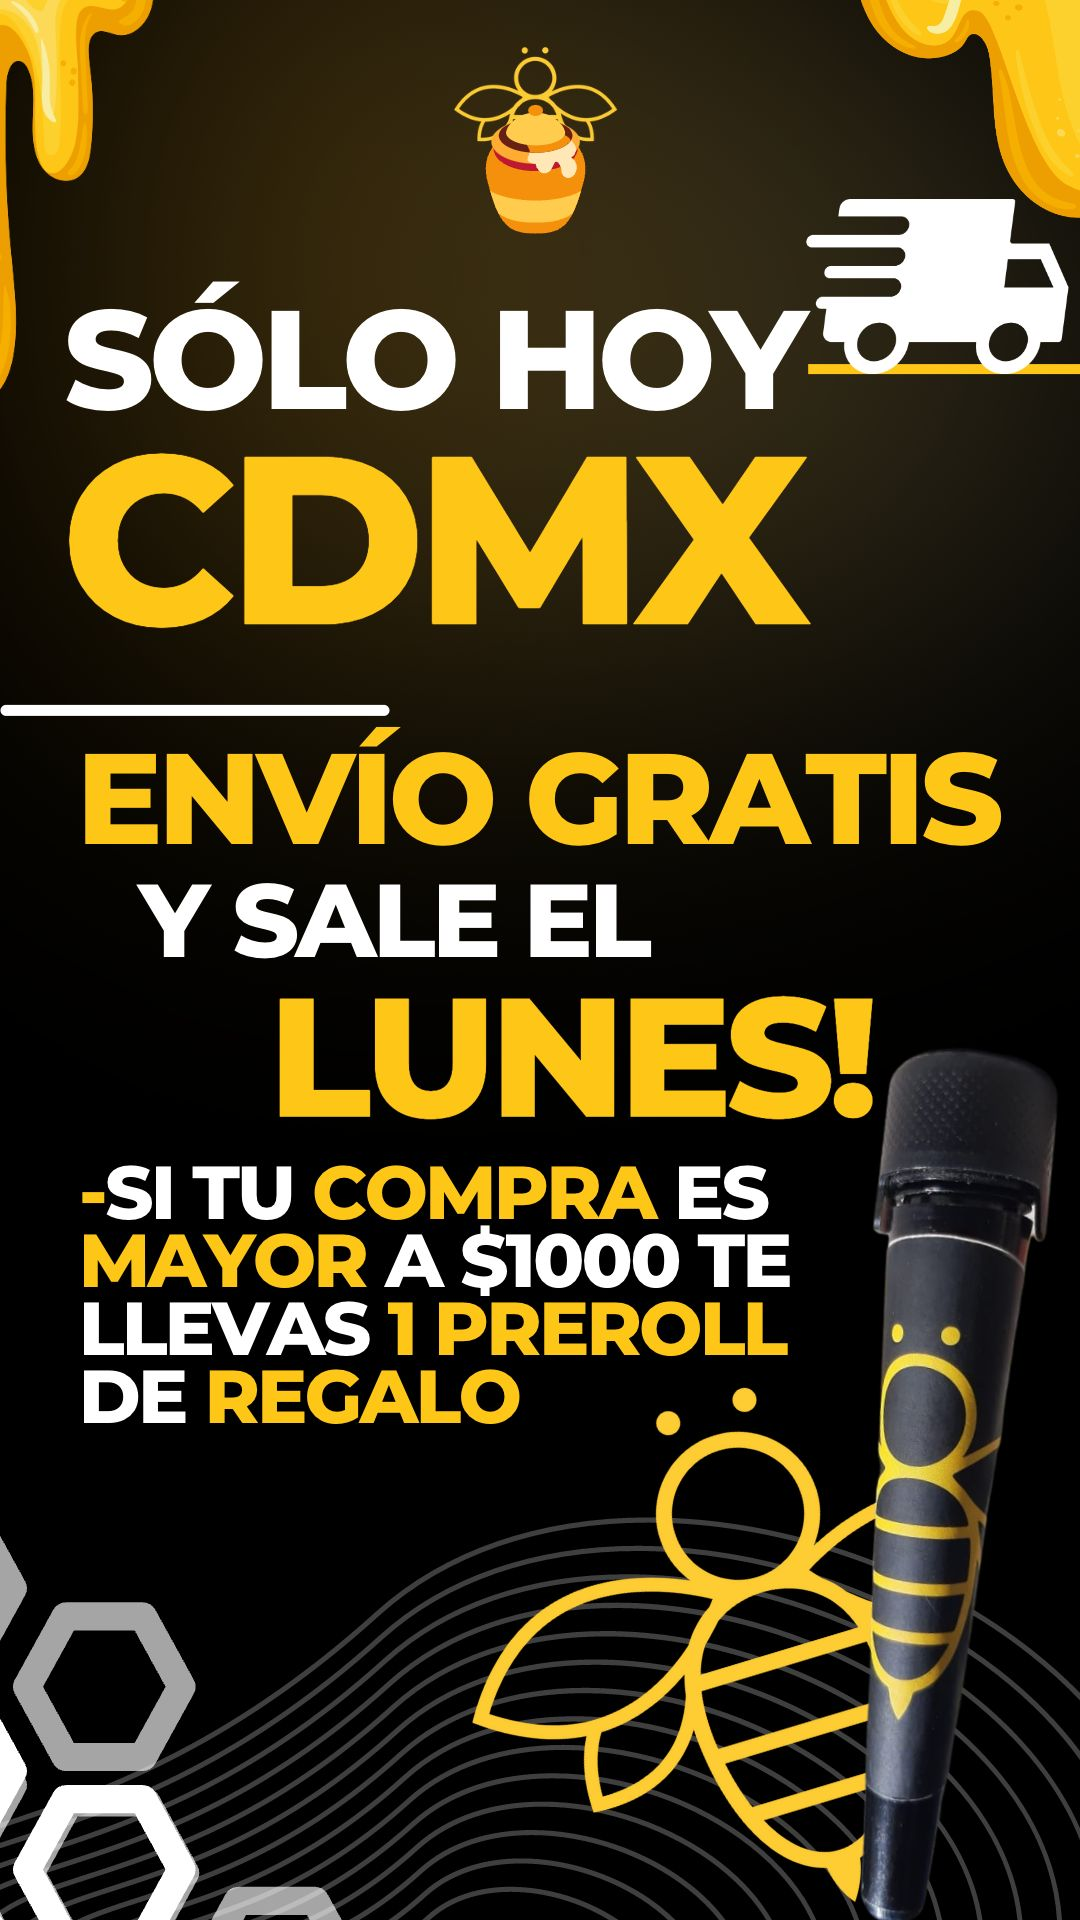
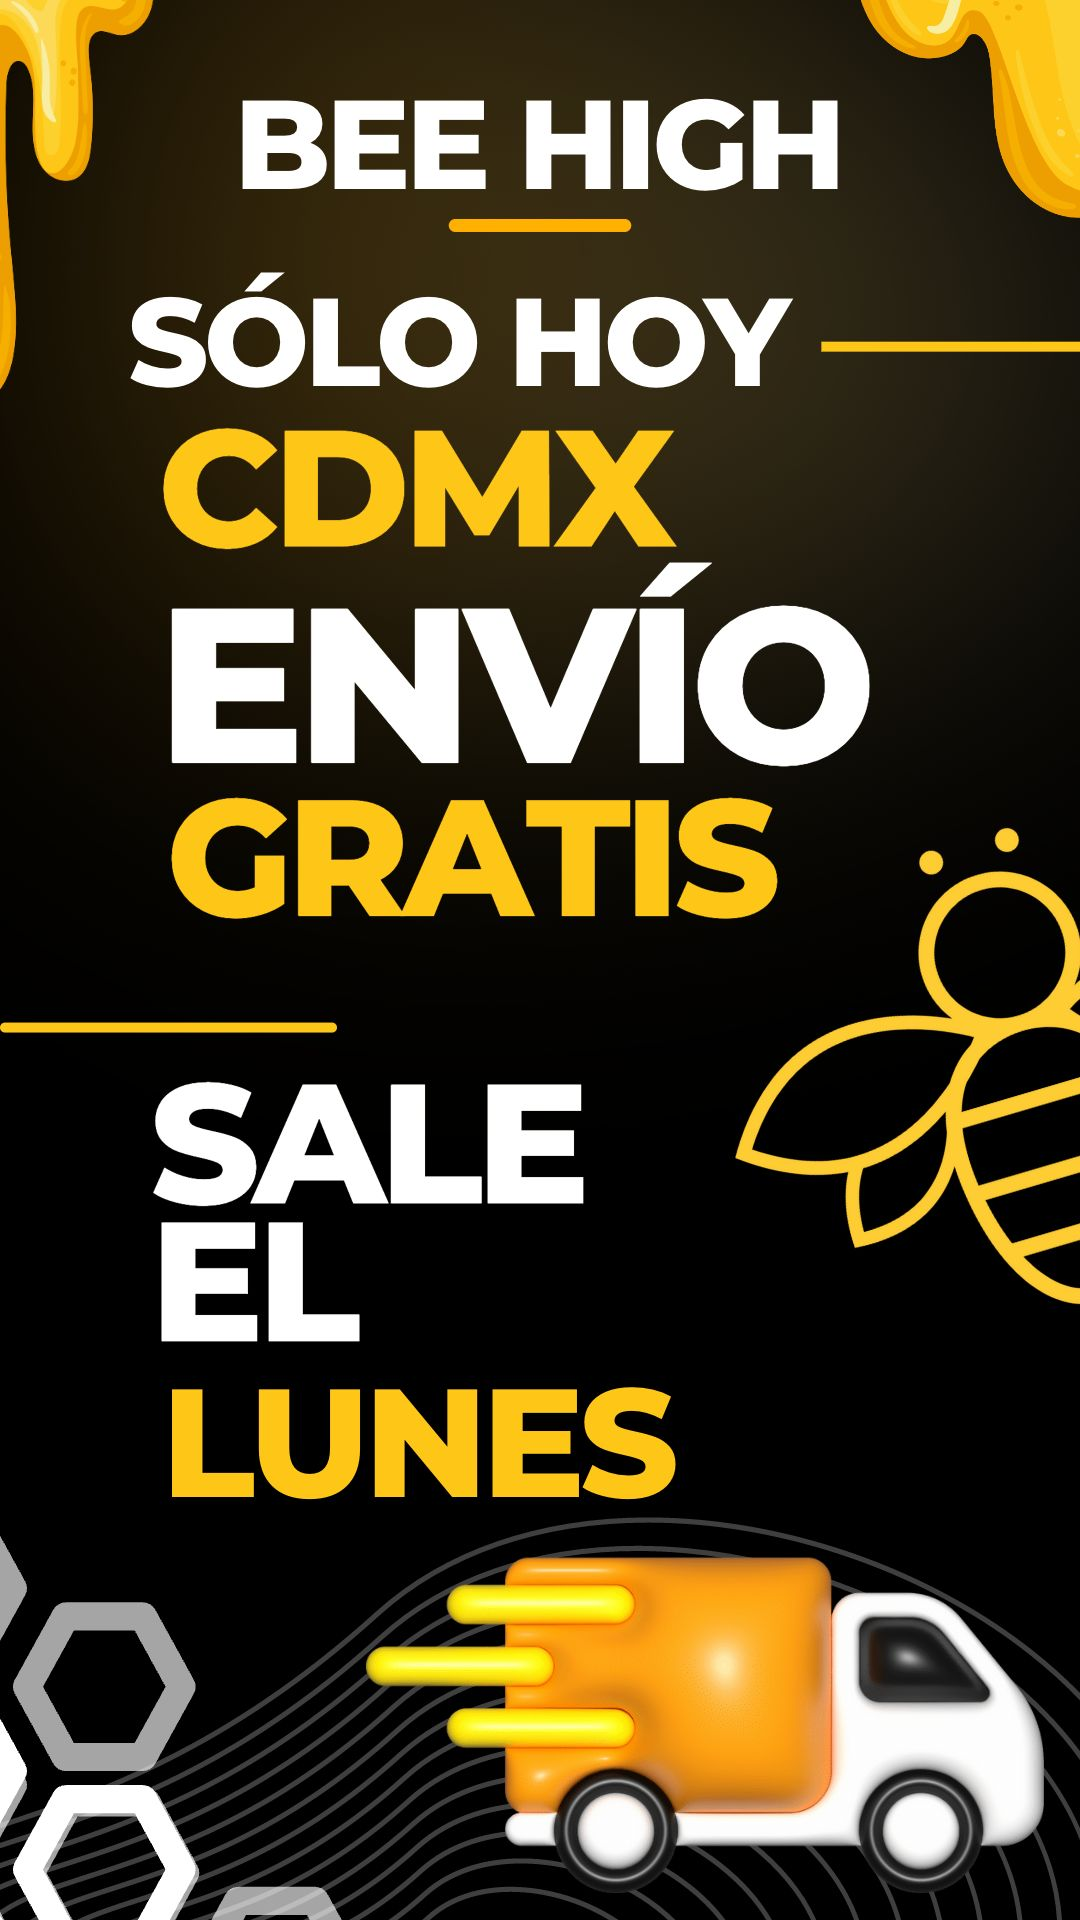
add

diff --git a/home.html b/home.html
@@ -84,6 +84,12 @@
 
             <article class="slide">
                 <div class="infoProducto">
+                    <img src="/media/CDMXLUNES.jpg" alt="Promo1" class="imagenPromo"> <!--dejar esta promo siempre-->
+                </div>
+            </article>
+
+            <article class="slide">
+                <div class="infoProducto">
                     <img src="/media/sabadablocura.jpg" alt="Promo1" class="imagenPromo"> <!--dejar esta promo siempre-->
                 </div>
             </article>
